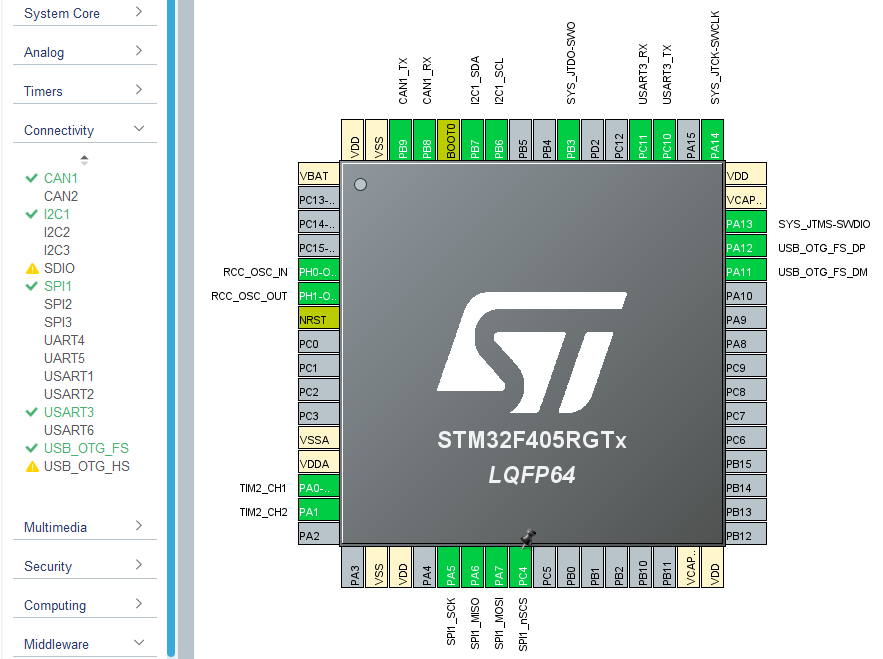
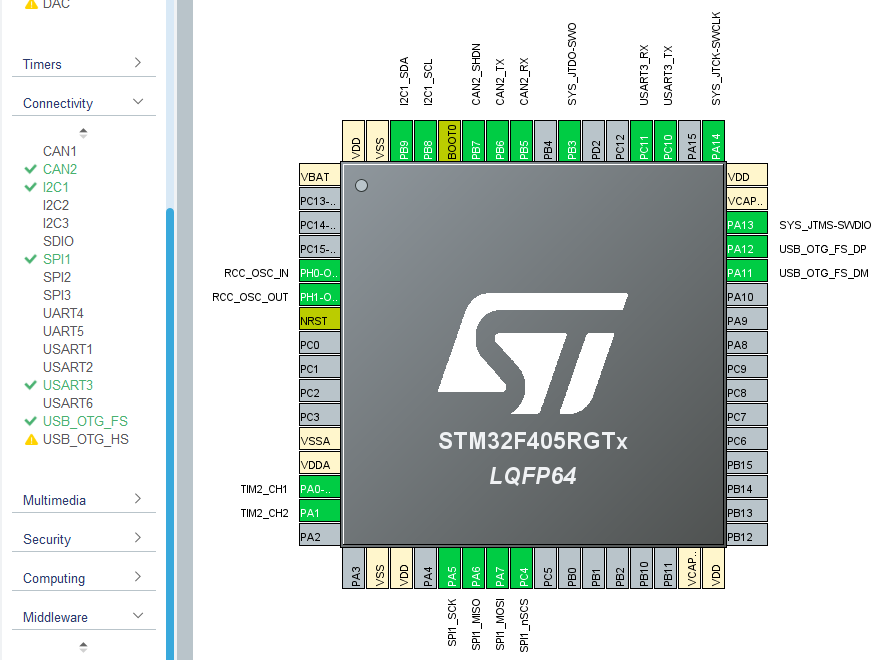
ESC Schematic finished, STM32 pinout changed

diff --git a/MotorControl/ESC.md b/MotorControl/ESC.md
@@ -16,11 +16,12 @@ The FOC program that such an ESC would run is detailed in [[FOC#Implementation]]
 
 ### Power source
 #### MCU
-##### 3.3V
+Requires 3.3V, regulated either from the batteries/PSU supply the motor or from the USB port when a source is connected. 
+
+##### Switching Buck Regulator from batteries
 LM5008A switching buck regulator integrated inside [[DRV8353RS]] gate driver.
 Recommended: a 10-47uF bulk capacitor near the input. 
-
-##### LM5008A Component Values using datasheet 
+###### LM5008A Component Values using datasheet 
 Assuming:
 	12-75V input voltage range. 
 	150mA output current. 
@@ -54,7 +55,7 @@ R3 must be sized so that with the ESR of C2 there results a >25mVp-p ripple at t
 
 ###### C5
 
-##### LM5008A Component Values using WEBENCH
+###### LM5008A Component Values using WEBENCH
 Assuming:
 	12-75V input voltage range. 
 	3.3V @ 150mA output current. 
@@ -65,6 +66,16 @@ WEBENCH generates:
 And simulates the output voltage for load currents of 50mA (sim:3) and 150mA (sim:4):
 ![[esc-WEBENCH-Vout-50-150mA.png]]
 For which both ripple ~35mA between 3.283V and 3.317V. 
+
+##### Low Drop-Out regulator from USB power
+<u>AMS1117-3.3:</u> Advanced Monolithic Systems fixed 3.3V LDO:
+![[esc-psu-3v3-ldo.png]]
+The P-MOS FET acts as reverse polarity protection, which isn't needed for USB, _however_
+by using a **pull-down resistor** and input from the batteries: if battery voltage (12-75V) is present, then the P-MOS will be reverse-biased, Vgs will be -ve, and so it wont conduct. 
+This way, in the presence of a battery connection, only the LM5008A switching buck regulator will provide 3.3V to the MCU and so no back-feeding from the batteries to the USB cable/supply will occur. 
+But in the absence of battery power, the USB cable can be used to power the MCU (for e.g. programming) without powering the DRV8353 gate driver, motor switches, or motor. 
+
+**Cost:** The **pull-down resistor** will parasitically drain 0.12-0.75mA from the batteries. 
 
 ##### 3.3VA
 Additional filtering for the analogue voltage source. 
@@ -83,6 +94,8 @@ Configured using CubeMX in CubeIDE:
 [Dubious Creations article tutorial on implementing USB C 2.0](https://dubiouscreations.com/2021/04/06/designing-with-usb-c-lessons-learned/) 
 Controlled impedance:
 
+#### CAN bus
+[Texas Instruments article on CAN bus standard vs split termination](https://e2e.ti.com/blogs_/b/industrial_strength/posts/the-importance-of-termination-networks-in-can-transceivers)
 
 ### Crystal oscillator
 Application note from STM about how to select surrounding circuitry for a crystal oscillator for stm32 MCUs: 

diff --git a/MotorControl/FYP.md b/MotorControl/FYP.md
@@ -15,8 +15,8 @@ Title: EV Motor Control using FreeRTOS on an Embedded CPU
 - [x] ==STM32 output configuration== 
 - [x] USB connector 
 	- [ ] Power MCU over USB without batteries? 
-- [ ] CANBUS connector 
-- [ ] Encoder connector 
+- [x] CANBUS connector 
+- [x] Encoder connector 
 	- [ ] Hall-effect sensor connector? 
 - [ ] Double check DRV schematic 
 
@@ -65,9 +65,12 @@ The following is a list of key components and the reasons they were chosen:
 `Reasons:` very similar feature set to the stm32f446ret6 in the nucleo-f446re used for [[FOC]] program development but unlike the f446, the f405 is more widely stocked and therefore available for order both individually and through SMD-assembly services at PCB prototype facilities. 
 
 `Component:` PSU for MCU
-Low Dropout Regulator vs Switched DC-DC converter
+<u>Switched DC-DC converter for power from batteries</u>
 `Part chosen:` integrated LM5008A inside DRV8353RS gate driver
 `Reasons:` reduces PCB footprint and complexity.  
+<u>Low Dropout Regulator for power from USB</u>
+`Part chosen:` Advanced Monolithic Systems AMS1117-3.3
+`Reasons:` Small footprint, simple, power efficiency not a concern over USB, cheap, very well stocked. 
 
 `Component:` 3.3V Fuse 
 `Part chosen:`  BOURNS MF-MSMF010-2
@@ -106,6 +109,14 @@ These optional integrated additional features removing the need for additional I
 `Part chosen:` STM USBLC6-2SC6
 `Reasons:` Designed specifically for USB ESD protection, very well stocked. 
 
+`Component:` CAN Bus transceiver 
+`Part chosen:` Maxim Integrated MAX33041EASA+
+`Reasons:` Small SOIC-8 package, 3.3V, in stock. 
+
+
+`Component:` 
+`Part chosen:` 
+`Reasons:` 
 
 `Component:` 
 `Part chosen:` 

diff --git a/Dailys/2022-04-27.md b/Dailys/2022-04-27.md
@@ -1,0 +1,16 @@
+
+<< [[2022-04-26]] | [[2022-04-28]] >>
+# 2022-04-27
+---
+
+## [[ESC]] PCB schematic finished
+Added CAN connector & circuitry, and encoder connector. 
+STM32 pinout altered to group CAN Tx/Rx with SHDN pin (moved I2C1 pins, switched from stm32 CAN1 to CAN2) [[ESC#STM32 pinout]]. 
+MCU PSU altered to source from USB if battery power absent [[ESC#Low Drop-Out regulator from USB power]]. 
+Pic:
+![[2022-04-27-pcb-v1.png]]
+
+Still to do is:
+picking some components (MOSFETs, feedback resistors, misc. passives)
+assigning footprints and other BOM fields
+DRC/ERC (Design/Electrical Rule Check)

diff --git a/MotorControl/STM32.md b/MotorControl/STM32.md
@@ -184,6 +184,7 @@ Then in **Middleware > USB_DEVICE**, a USB class can be configured such as `Comm
 ---
 ### CANBUS
 2.0A and B up to 1Mbps
+Requires external CAN transceiver to modulate signals from 0-3.3V to CANL/CANH that go from 0-VCC/2 and VCC/2-VCC. 
 
 ---
 ### Encoder

diff --git a/Dailys/2022-04-28.md b/Dailys/2022-04-28.md
@@ -1,0 +1,12 @@
+
+<< [[2022-04-27]] | [[2022-04-29]] >>
+# 2022-04-28
+---
+
+## ESC Layout work
+
+Progress:
+[pic]
+
+
+## 
